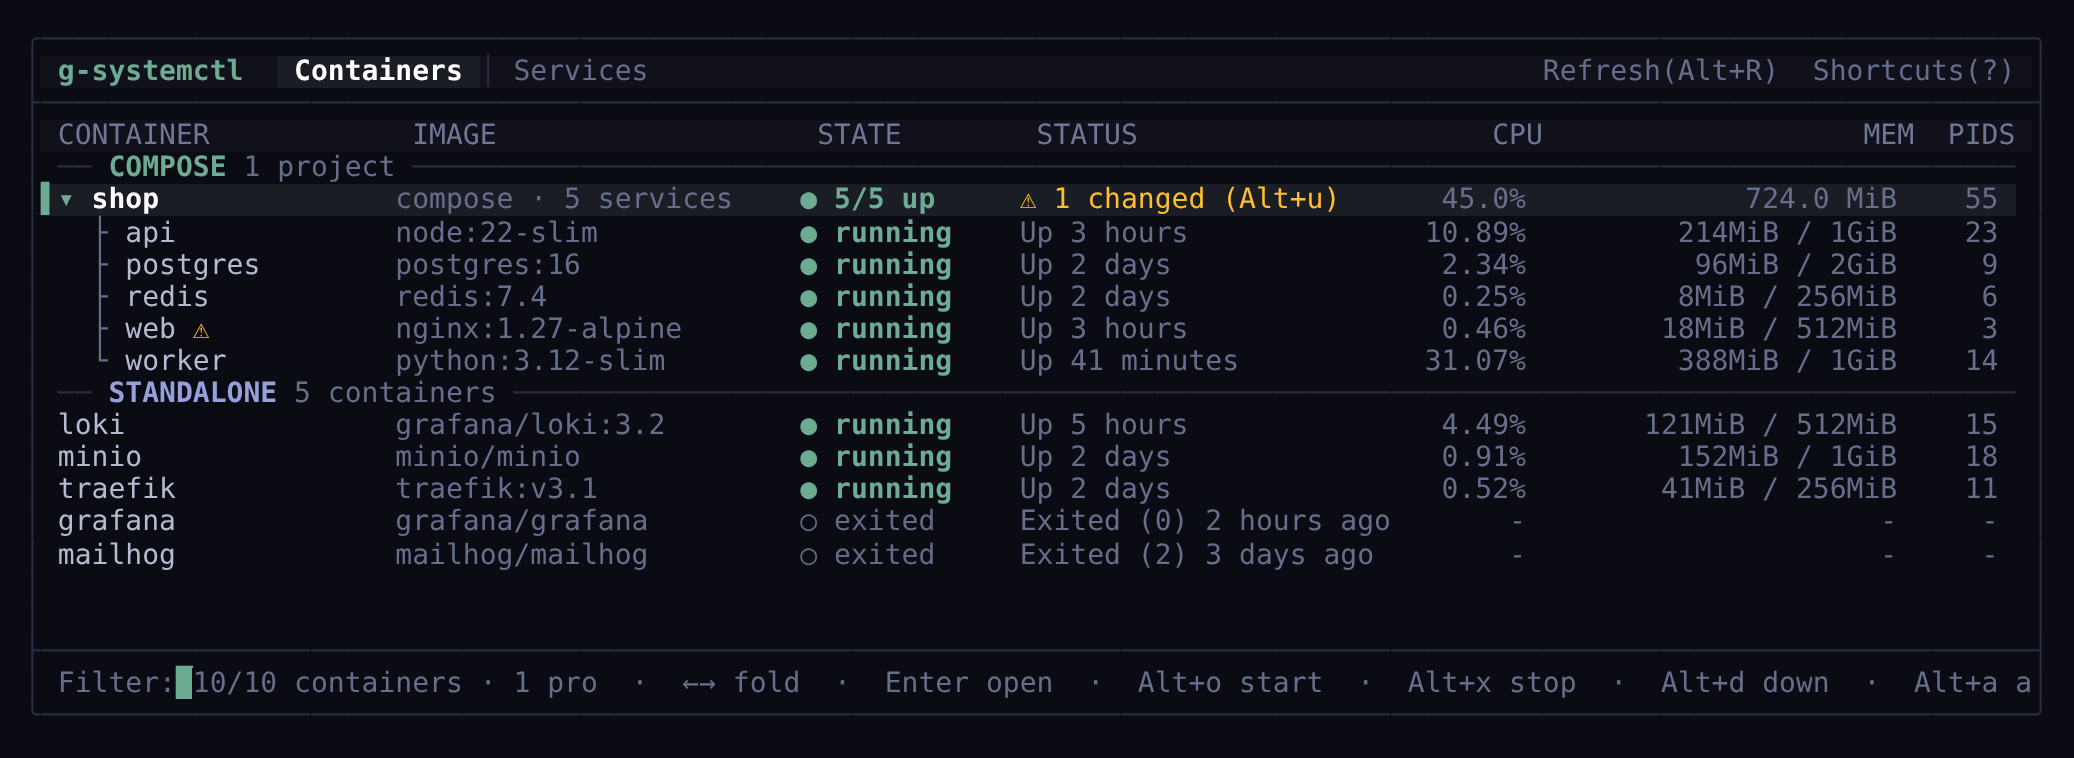
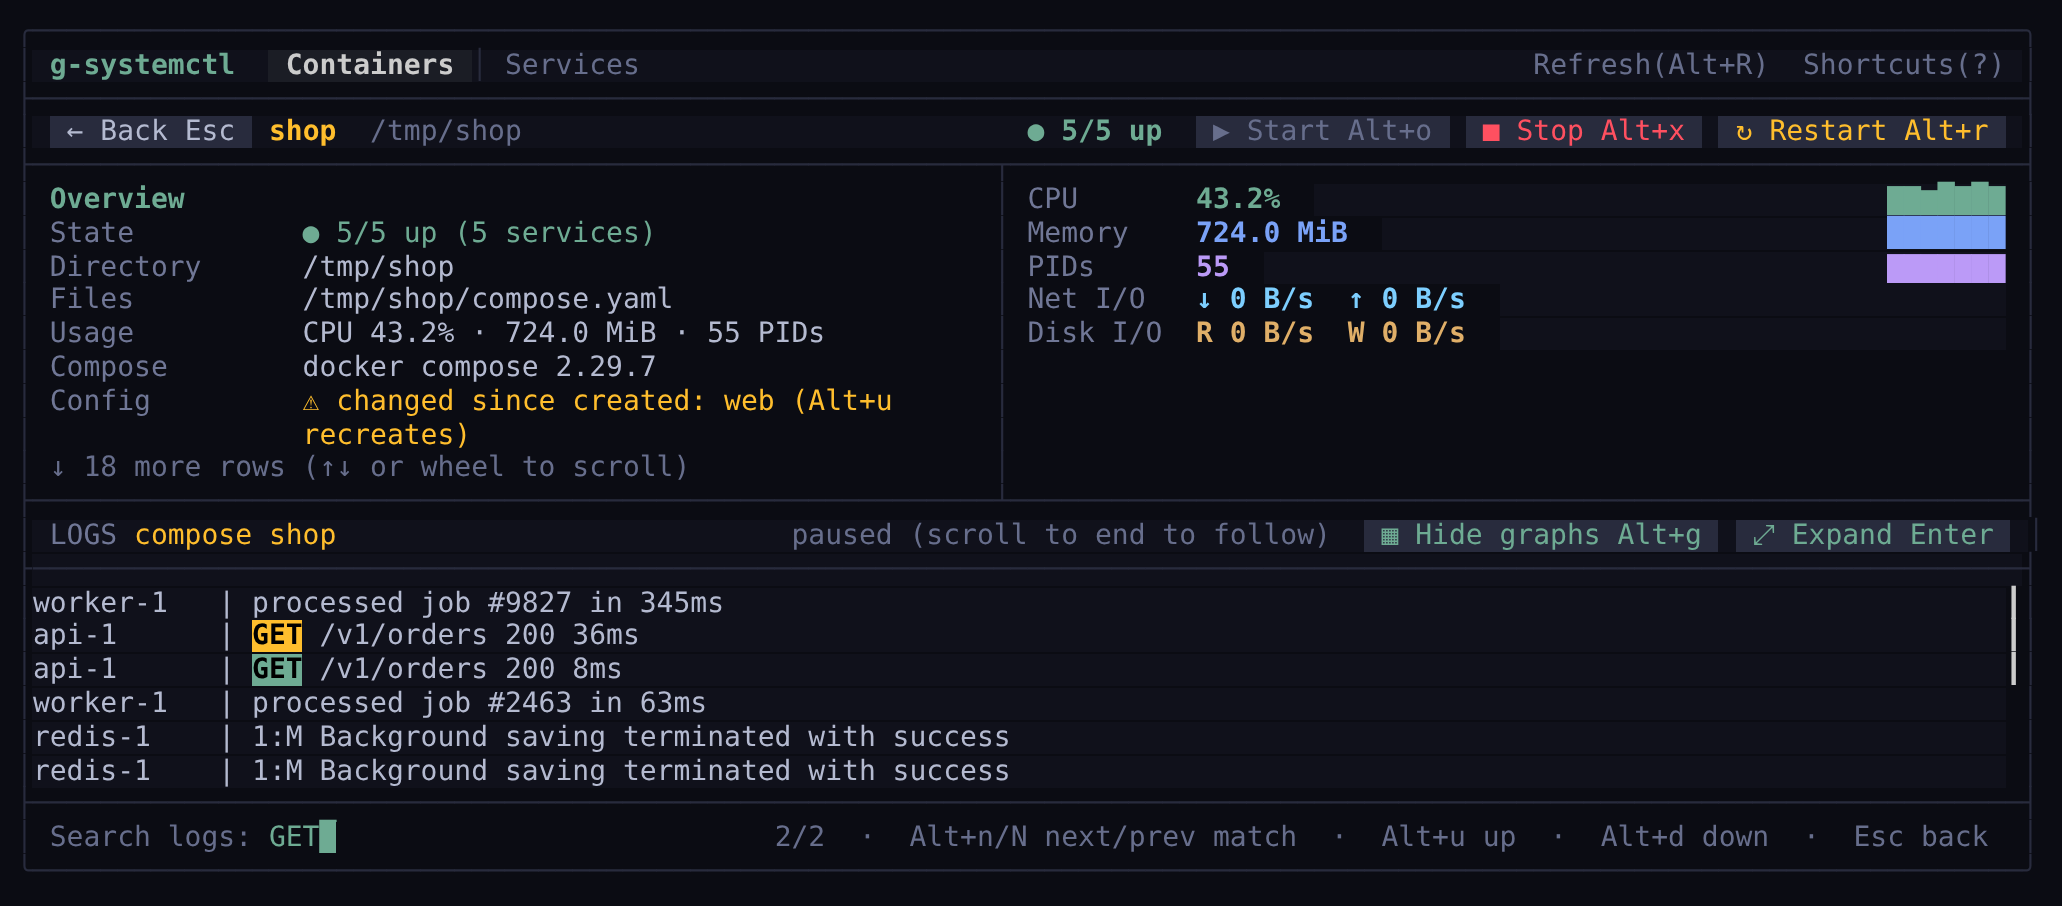
Fix flaky stats test; update README screenshot and landing page
The podman stats test sampled right after start, when rootless podman can
still report 0B memory; it now samples again for up to 5s.
README screenshot shows the log search. Landing page: fuzzy filter mock
with highlighted letters, log search text, Enter confirms in the prompt,
re-recorded demo.

Claude-Session: https://claude.ai/code/session_01HkkzNPENFB4okvJwvYnoKd

diff --git a/landing-page/src/styles/landing.css b/landing-page/src/styles/landing.css
@@ -170,6 +170,7 @@ h1 .acc { color: var(--acc); }
 .fl-n { padding: 4px 12px 10px; color: var(--muted); font-size: 12px; }
 .fl-list li .s { color: var(--acc); font-size: 12px; }
 .fl-list li .s.o { color: #8a8ea0; }
+.fl-list li .m { color: var(--warn, #ffbe2d); font-weight: 700; text-decoration: underline; }
 
 /* safe card */
 .safe { display: grid; gap: 14px; height: 100%; align-content: center; }

diff --git a/tests/integration/runtime_integration_test.cpp b/tests/integration/runtime_integration_test.cpp
@@ -14,6 +14,7 @@
 #include <algorithm>
 #include <atomic>
 #include <chrono>
+#include <map>
 #include <cstdlib>
 #include <fstream>
 #include <mutex>
@@ -197,7 +198,15 @@ TEST_F(RuntimeIntegration, ListsContainersWithoutPodInfra) {
 TEST_F(RuntimeIntegration, StatsParse) {
     auto logger = find(manager->list_containers(), "gsc-it-logger");
     ASSERT_TRUE(logger);
-    auto stats = manager->container_stats();
+    // Rootless podman can report "0B" memory for a container that just
+    // started (cgroup not populated yet): sample again for up to 5s.
+    std::map<std::string, ContainerStats> stats;
+    for (int i = 0; i < 10; ++i) {
+        stats = manager->container_stats();
+        if (stats.count(logger->id) && parse_docker_size_pair(stats.at(logger->id).mem_usage).first > 0)
+            break;
+        std::this_thread::sleep_for(std::chrono::milliseconds(500));
+    }
     ASSERT_TRUE(stats.count(logger->id)) << "no stats for " << logger->id;
     const auto& s = stats.at(logger->id);
     EXPECT_GE(parse_docker_percent(s.cpu), 0) << s.cpu;

diff --git a/CLAUDE.md b/CLAUDE.md
@@ -108,7 +108,7 @@ npm run preview:worker  # build, then serve dist/ with wrangler dev like product
 - Analytics: self-hosted Umami. `BaseHead.astro` adds the tracker only when `PUBLIC_UMAMI_SCRIPT` and `PUBLIC_UMAMI_WEBSITE_ID` are set at build (CI reads repo variables `UMAMI_SCRIPT`, `UMAMI_WEBSITE_ID`); `data-domains` limits it to the production host. Custom events: `data-umami-event` on GitHub/contribute links, `umami.track("install_copy")` in `landing.js`
 - Site URL and base path come from `SITE_URL` / `SITE_BASE` (default `https://g-systemctl.org` + `/`). Link with `url()` from `src/lib/site.ts`, never hard-coded `/` paths
 - Look: soft dark base with pastel accents (tokens in `src/styles/global.css`). Surfaces are filled panels with no border, shadow or glow; 1px lines are used only for the page column frame (`.frame`) and one hairline between sections. Every section is heading + `.sub` line, then content inset inside the frame; grids (bento, keymap, FAQ) are filled cells with an 8px gap, not full-bleed hairline grids. No window chrome or traffic-light dots
-- Feature-card mocks of the app must match the app exactly: square elements (the selected row is a flat band with an accent `▌` glyph, not a rounded box with a left border), real labels and prompts, and no behavior the app lacks (e.g. the filter does not highlight matches). Check a mock against a screenshot of the binary before changing it
+- Feature-card mocks of the app must match the app exactly: square elements (the selected row is a flat band with an accent `▌` glyph, not a rounded box with a left border), real labels and prompts, and no behavior the app lacks (e.g. the filter highlights matched letters but does not reorder by match quality). Check a mock against a screenshot of the binary before changing it
 - Keep Lighthouse at 100: CSS is inlined, below-the-fold scripts start via `idle()`, and the hero terminal reserves its height to avoid layout shift
 
 **FTXUI Components Used:**
